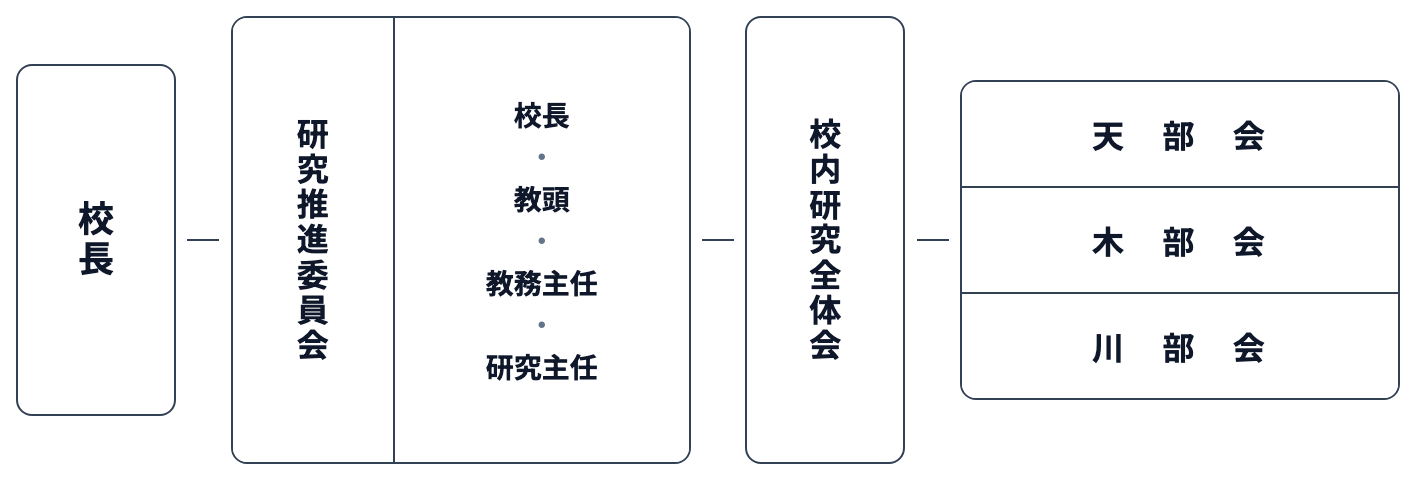
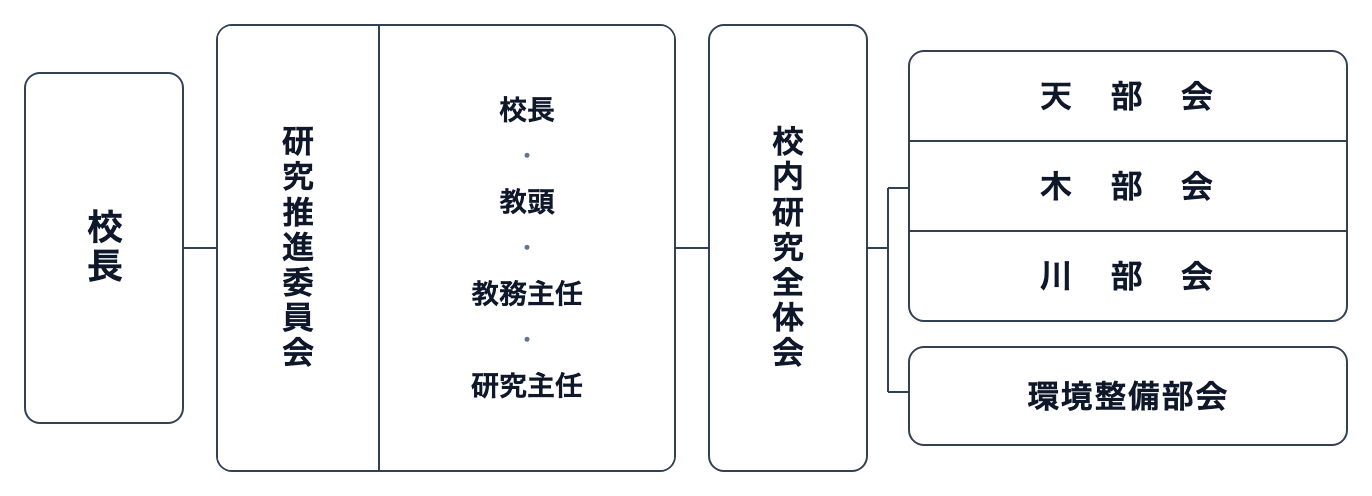
update

diff --git a/taisei/taisei.html b/taisei/taisei.html
@@ -352,7 +352,7 @@
                     <!-- 研究組織（完全フィット） -->
                     <div class="p-5 md:p-6 rounded-xl border border-slate-300 bg-white shadow-2xs font-gothic">
                         <div class="w-full overflow-x-auto py-1">
-                    <div class="w-full max-w-[680px] mx-auto flex items-center justify-between gap-0 select-none py-2 px-1">
+                    <div class="w-full max-w-[700px] mx-auto flex items-center justify-between gap-0 select-none py-2 px-1">
                         
                         <!-- 1. 校長 -->
                         <div class="w-20 h-44 border border-slate-700 bg-white rounded-lg flex items-center justify-center p-2 shadow-2xs shrink-0">
@@ -394,19 +394,41 @@
                             </span>
                         </div>
 
-                        <!-- 接続線3（短縮） -->
-                        <div class="w-4 h-px bg-slate-700 shrink-0"></div>
+                        <!-- 接続線3 + 分岐構造（三部会 & 環境整備部） -->
+                        <div class="flex items-center shrink-0">
+                            <!-- 分岐SVG -->
+                            <svg class="w-5 h-[196px] shrink-0 text-slate-700 block" viewBox="0 0 20 196" fill="none">
+                                <!-- 全体会中央（y=98）からの水平線 -->
+                                <line x1="0" y1="98" x2="10" y2="98" stroke="currentColor" stroke-width="1" />
+                                <!-- 垂直の分岐線（三部会中心 y=68 から 環境整備部中心 y=170 まで） -->
+                                <line x1="10" y1="68" x2="10" y2="170" stroke="currentColor" stroke-width="1" />
+                                <!-- 三部会への水平線（y=68） -->
+                                <line x1="10" y1="68" x2="20" y2="68" stroke="currentColor" stroke-width="1" />
+                                <!-- 環境整備部への水平線（y=170） -->
+                                <line x1="10" y1="170" x2="20" y2="170" stroke="currentColor" stroke-width="1" />
+                            </svg>
 
-                        <!-- 4. ３部会（天部会・木部会・川部会） -->
-                        <div class="w-[200px] md:w-[220px] border border-slate-700 bg-white rounded-lg overflow-hidden shadow-2xs divide-y divide-slate-700 text-center shrink-0">
-                            <div class="py-3.5 font-bold text-sm md:text-base text-slate-900 tracking-widest hover:bg-slate-50 transition">
-                                天　部　会
-                            </div>
-                            <div class="py-3.5 font-bold text-sm md:text-base text-slate-900 tracking-widest hover:bg-slate-50 transition">
-                                木　部　会
-                            </div>
-                            <div class="py-3.5 font-bold text-sm md:text-base text-slate-900 tracking-widest hover:bg-slate-50 transition">
-                                川　部　会
+                            <!-- 右列ブロック（３部会 ＆ 環境整備部） -->
+                            <div class="w-[200px] md:w-[220px] flex flex-col gap-3 shrink-0">
+                                <!-- ３部会 -->
+                                <div class="border border-slate-700 bg-white rounded-lg overflow-hidden shadow-2xs divide-y divide-slate-700 text-center shrink-0">
+                                    <div class="py-2.5 font-bold text-sm md:text-base text-slate-900 tracking-widest hover:bg-slate-50 transition">
+                                        天　部　会
+                                    </div>
+                                    <div class="py-2.5 font-bold text-sm md:text-base text-slate-900 tracking-widest hover:bg-slate-50 transition">
+                                        木　部　会
+                                    </div>
+                                    <div class="py-2.5 font-bold text-sm md:text-base text-slate-900 tracking-widest hover:bg-slate-50 transition">
+                                        川　部　会
+                                    </div>
+                                </div>
+
+                                <!-- 環境整備部会 -->
+                                <div class="border border-slate-700 bg-white rounded-lg py-3 px-2 shadow-2xs text-center shrink-0 hover:bg-slate-50 transition">
+                                    <div class="font-bold text-sm md:text-base text-slate-900 tracking-wider leading-normal">
+                                        環境整備部会
+                                    </div>
+                                </div>
                             </div>
                         </div>
 
@@ -656,6 +678,9 @@
                         </p>
                         <p class="indent-[1em] text-justify">
                             「川」部会では、児童生徒の探究成果を校内掲示やデジタルアーカイブとして蓄積する「ポスターの保管」の構築や、地域住民・事業所と協働する「人材バンク」の整備・活用を中心に授業改善を推進している。
+                        </p>
+                        <p class="indent-[1em] text-justify">
+                            「環境整備部会」では、主に校内の掲示に関わる整備を担当することを主な役割とし、児童生徒の探究の成果や学びの足跡を効果的に共有・発信できる教育環境の充実に努めている。
                         </p>
                     </div>
 

diff --git a/taisei/word-export.js b/taisei/word-export.js
@@ -314,7 +314,7 @@
         children.push(createParagraph('１年生から９年生までを通して、ポスターセッションを帯学習として日常的に実施している。ブース形式で対面しながら自分の言葉で伝え、他学年や地域の方々と双方向のやり取りを重ねることで、表現力や周りと主体的に関わる姿勢を育てている。'));
 
         children.push(createHeading2('4　研究組織'));
-        children.push(createParagraph('校長をトップとし、研究推進委員会（校長、教頭、教務主任、研究主任）、校内研究全体会、そして３部会（天部会・木部会・川部会）からなる研究推進体制を構築している。', { indent: false }));
+        children.push(createParagraph('校長をトップとし、研究推進委員会（校長、教頭、教務主任、研究主任）、校内研究全体会、そして３部会（天部会・木部会・川部会）および環境整備部会（校内の掲示に関わる整備を担当）からなる研究推進体制を構築している。', { indent: false }));
 
         if (soshikiImg) {
             children.push(new docx.Paragraph({
@@ -323,7 +323,7 @@
                 children: [
                     new docx.ImageRun({
                         data: soshikiImg,
-                        transformation: { width: 520, height: 176 }
+                        transformation: { width: 520, height: 188 }
                     })
                 ]
             }));
@@ -380,6 +380,7 @@
         children.push(createParagraph('「天」部会では、生活科から総合的な学習の時間への９年間の系統性を見通した全体計画の策定を中心に授業改善を推進している。'));
         children.push(createParagraph('「木」部会では、児童生徒の問いの深まりを支える過去の探究テーマの集積・分析や、日常的な表現力・対話力を培うポスターセッション帯活動の教材・話型支援の開発を中心に授業改善を推進している。'));
         children.push(createParagraph('「川」部会では、児童生徒の探究成果を校内掲示やデジタルアーカイブとして蓄積する「ポスターの保管」の構築や、地域住民・事業所と協働する「人材バンク」の整備・活用を中心に授業改善を推進している。'));
+        children.push(createParagraph('「環境整備部会」では、主に校内の掲示に関わる整備を担当することを主な役割とし、児童生徒の探究の成果や学びの足跡を効果的に共有・発信できる教育環境の充実に努めている。'));
 
         children.push(createHeading3('（３）PBLに関する研修'));
         children.push(createParagraph('実社会に即した「正解のない課題」を発見し、解決策の立案から実行・発信までを自ら行う「PBL（Project-Based Learning：プロジェクト型学習）」をテーマに職員研修を実施している。これは、子どもたちの主体性を育成する有効な手法として着目するだけでなく、教員自身がふるさと学習において児童生徒の探究をファシリテートしていくための道標とすることをねらいとしている。ふるさと学習を軸に、前期課程では天川村についての学びを深め、後期課程では村への提言を行うプロジェクトへと展開させることで、学校教育の成果が広く地域へ還元される仕組みづくりを目指している。'));

diff --git a/index.html b/index.html
@@ -662,7 +662,7 @@
                         <div class="flex items-center justify-between px-1">
                             <div class="flex items-center gap-2 min-w-0">
                                 <span class="w-5 h-5 sm:w-6 sm:h-6 rounded-md bg-gradient-to-br from-cyan-600 to-teal-700 text-white font-bold flex items-center justify-center text-[10px] sm:text-xs shadow-2xs shrink-0">川</span>
-                                <h3 class="text-xs sm:text-sm font-bold text-slate-800 truncate">川部会</h3>
+                                <h3 class="text-xs sm:text-sm font-bold text-slate-800 truncate">川部会・環境整備部会</h3>
                                 <span class="text-[9px] sm:text-[10px] text-cyan-800 bg-cyan-100/60 px-1.5 py-0.2 rounded hidden xs:inline shrink-0">清流・地域と教材の連携</span>
                             </div>
                             <i class="fa-solid fa-water text-cyan-600/70 text-xs shrink-0" title="清流と循環"></i>
@@ -855,7 +855,7 @@
                                         <rect class="node-box" x="270" y="228" width="220" height="58" rx="10" fill="#ffffff" stroke="#0891b2" stroke-width="1.8" filter="url(#clean-shadow)" />
                                         <rect x="282" y="236" width="50" height="15" rx="3" fill="#cffafe" />
                                         <text x="307" y="247" font-size="8.5" font-weight="bold" fill="#0e7490" text-anchor="middle">地域連携</text>
-                                        <text x="340" y="248" font-size="9" font-weight="bold" fill="#155e75">川部会</text>
+                                        <text x="338" y="248" font-size="8.5" font-weight="bold" fill="#155e75">川部会・環境整備部会</text>
                                         <text x="282" y="271" font-size="12.5" font-weight="bold" fill="#164e63">地域人材・ポスターの保管</text>
                                         <circle cx="468" cy="257" r="9" fill="#a5f3fc" />
                                         <text x="468" y="260" font-size="9" fill="#0e7490" text-anchor="middle">↗</text>
